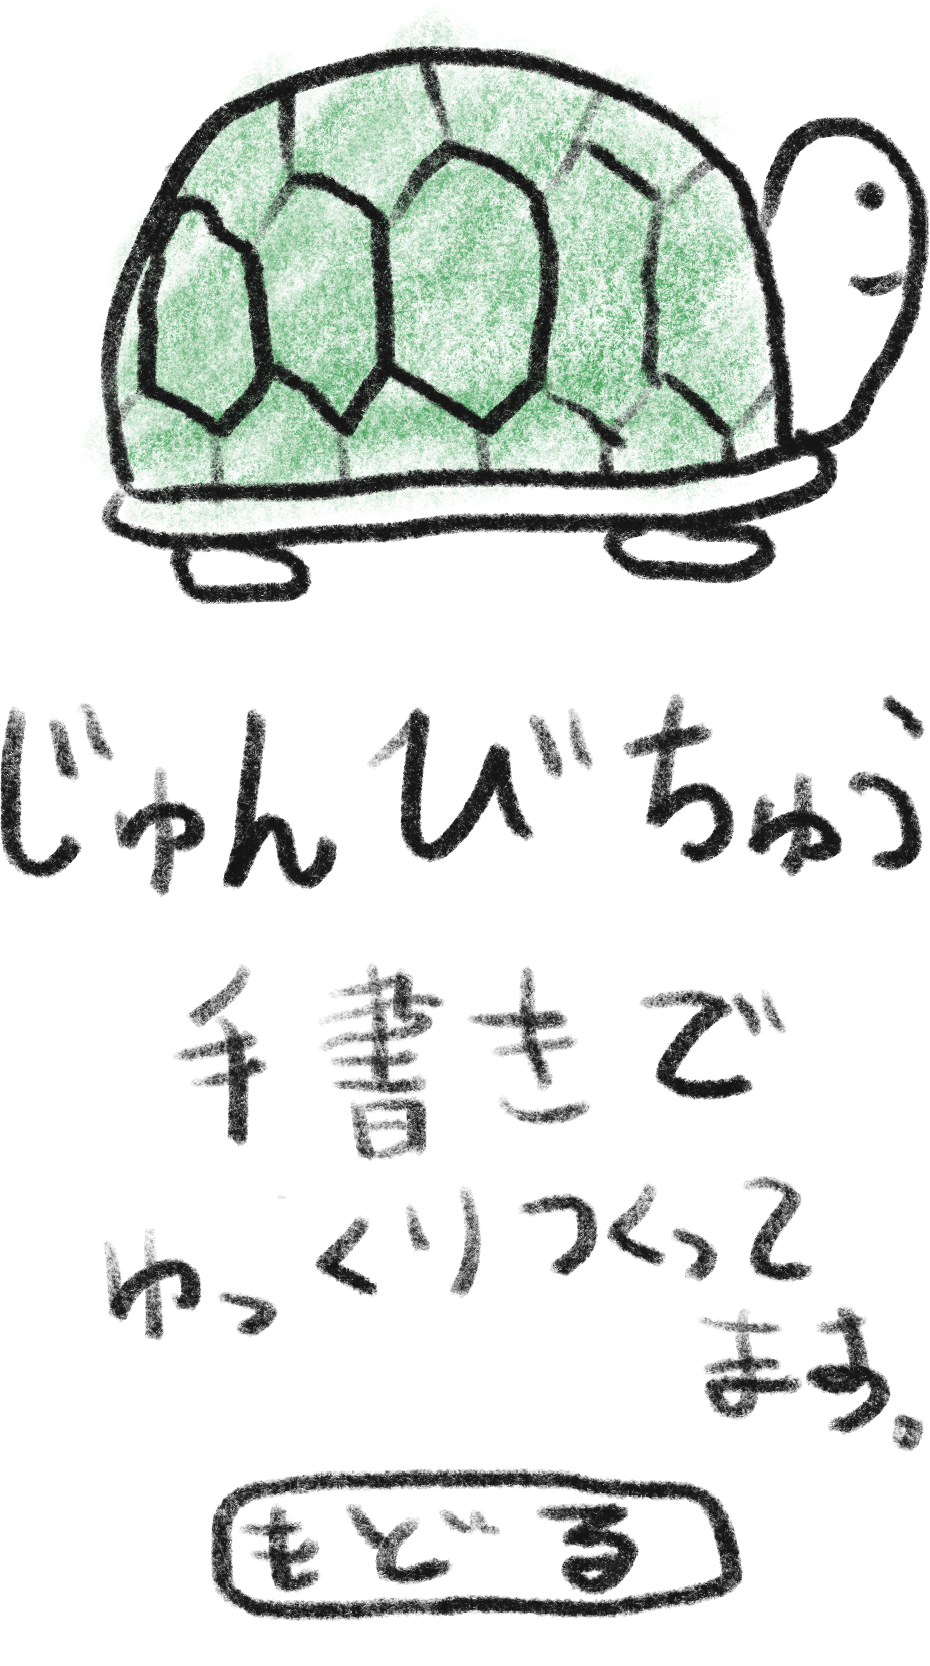
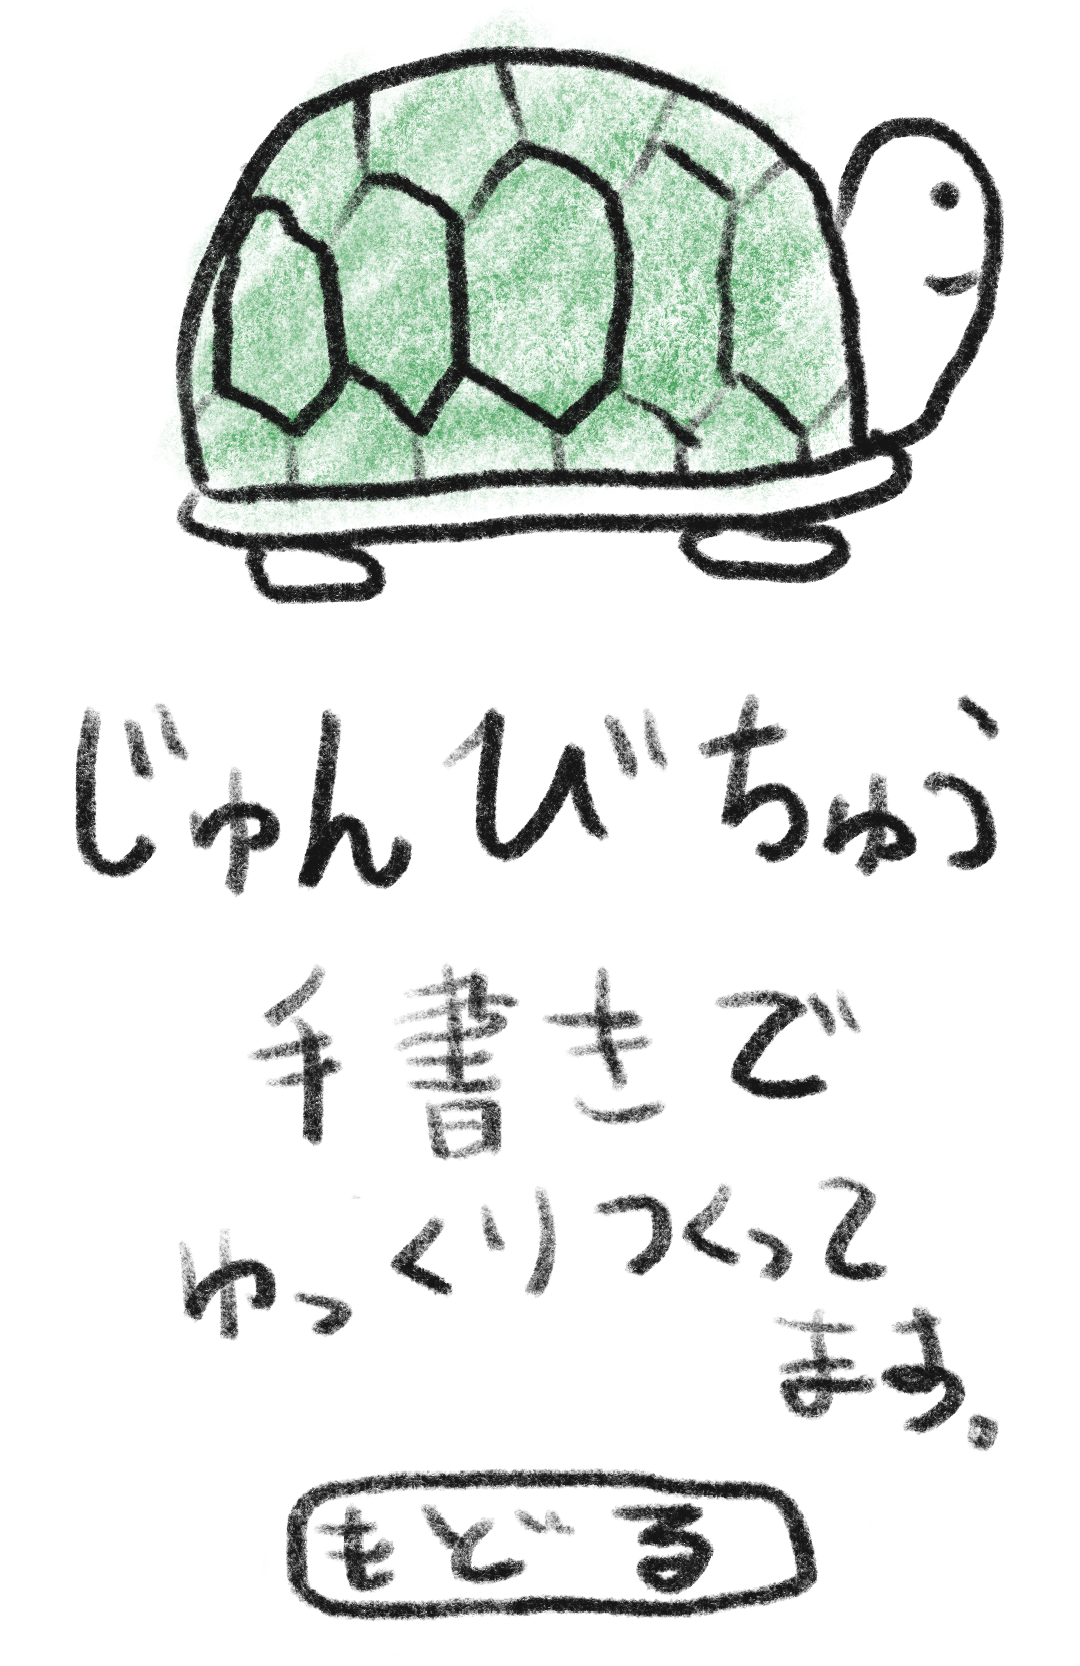
fix getting_ready_sp

diff --git a/source/stylesheets/portfolio.css.scss b/source/stylesheets/portfolio.css.scss
@@ -13,9 +13,6 @@
   }
 }
 @include is-sp {
-  .main-img {
-    width: 330px;
-  }
   .back {
     transform: translate(0, 430%);
   }
